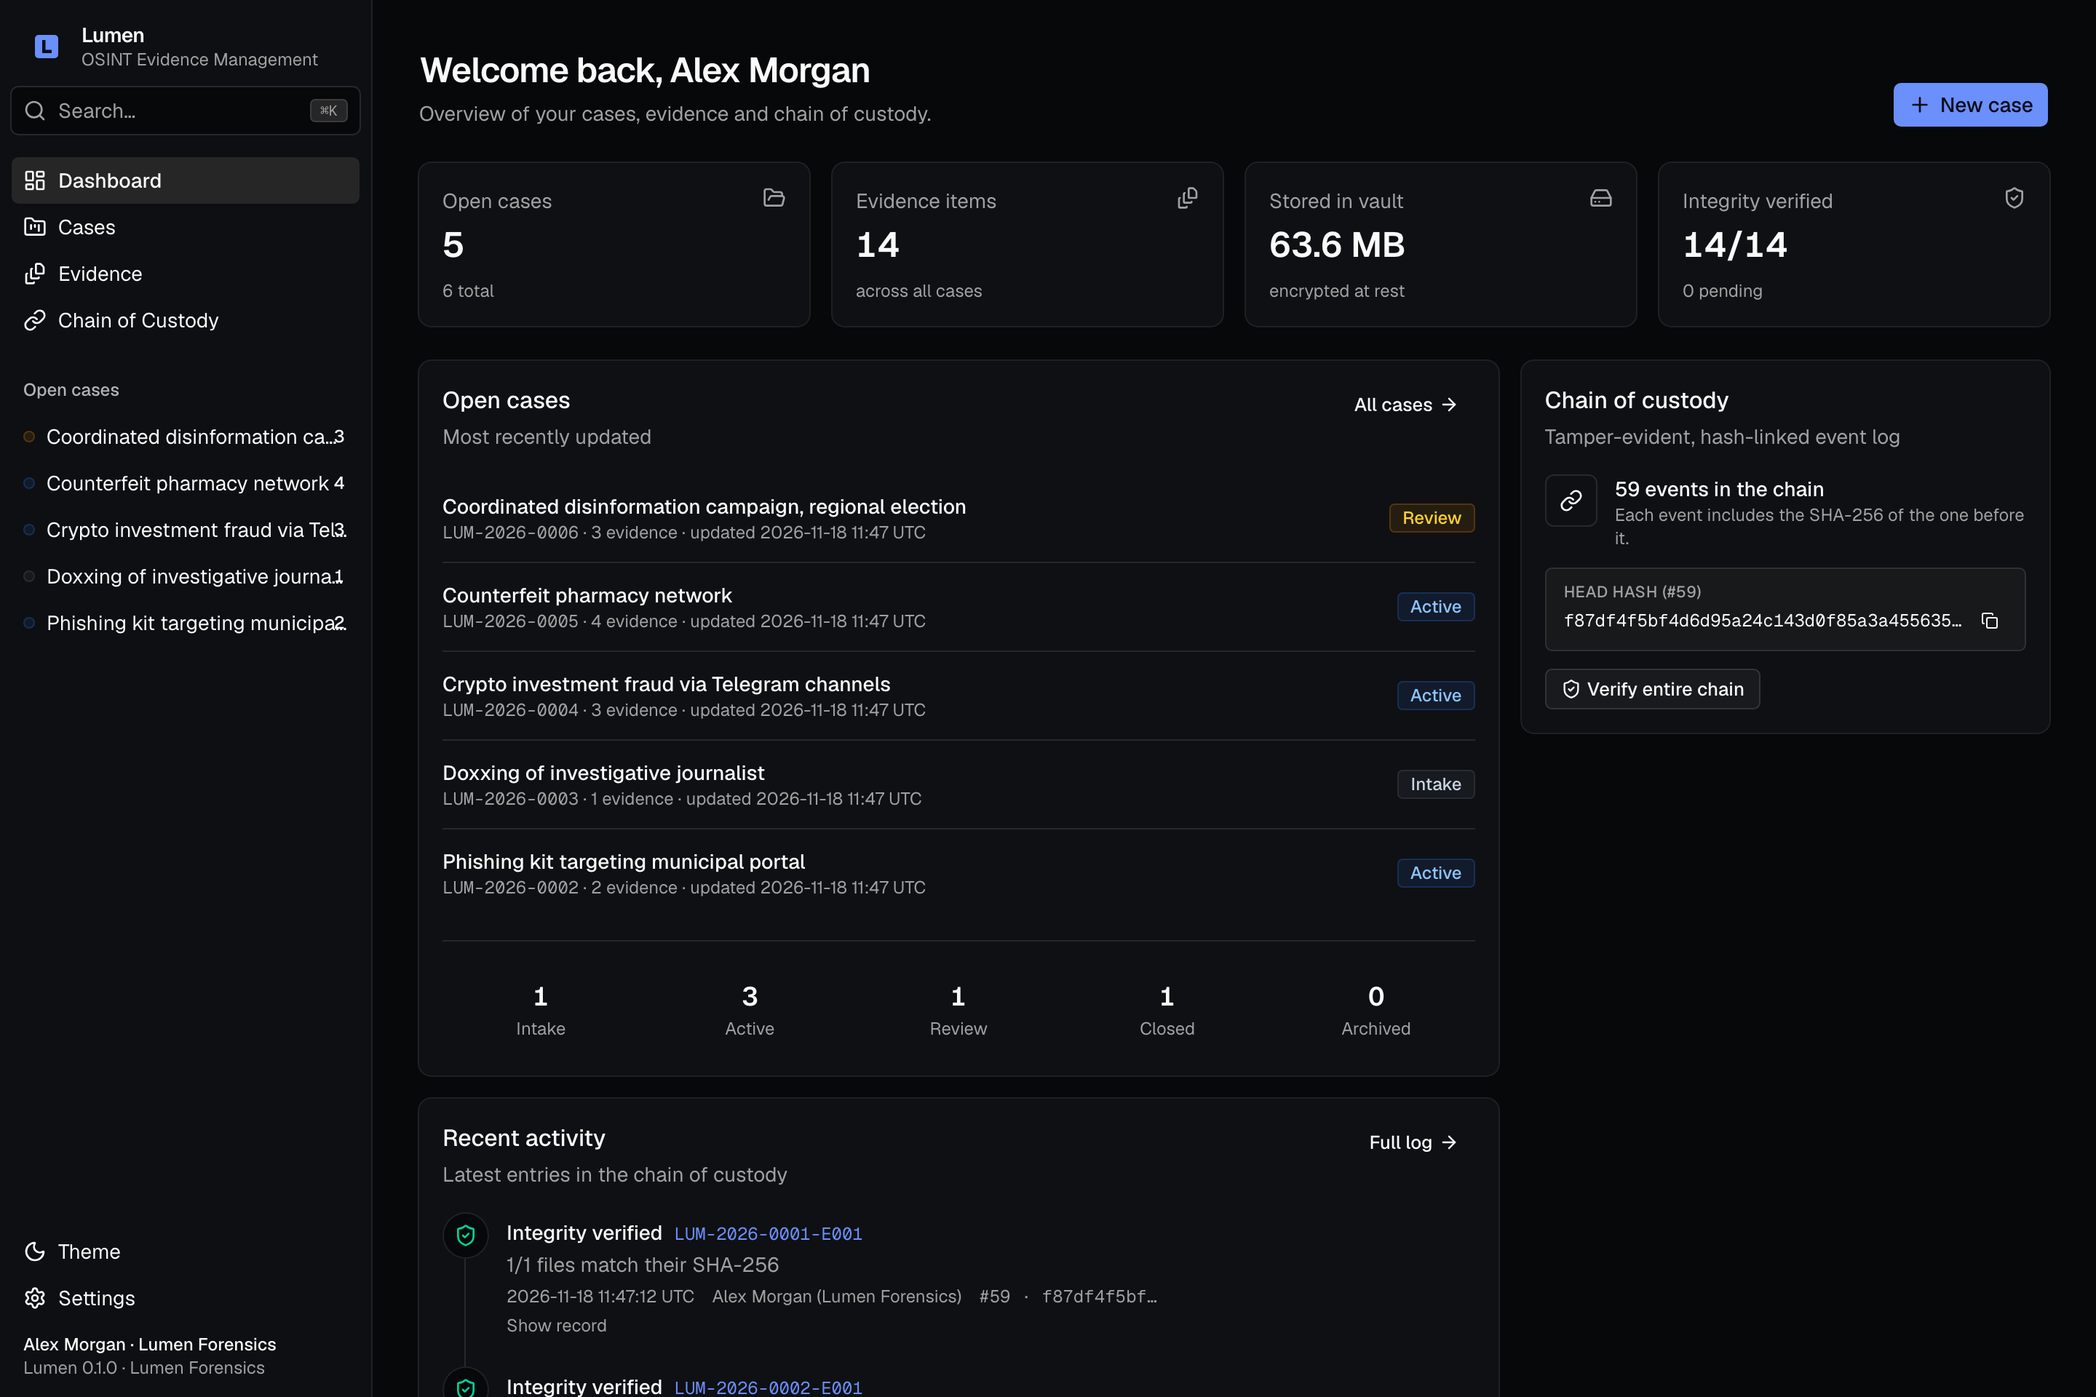
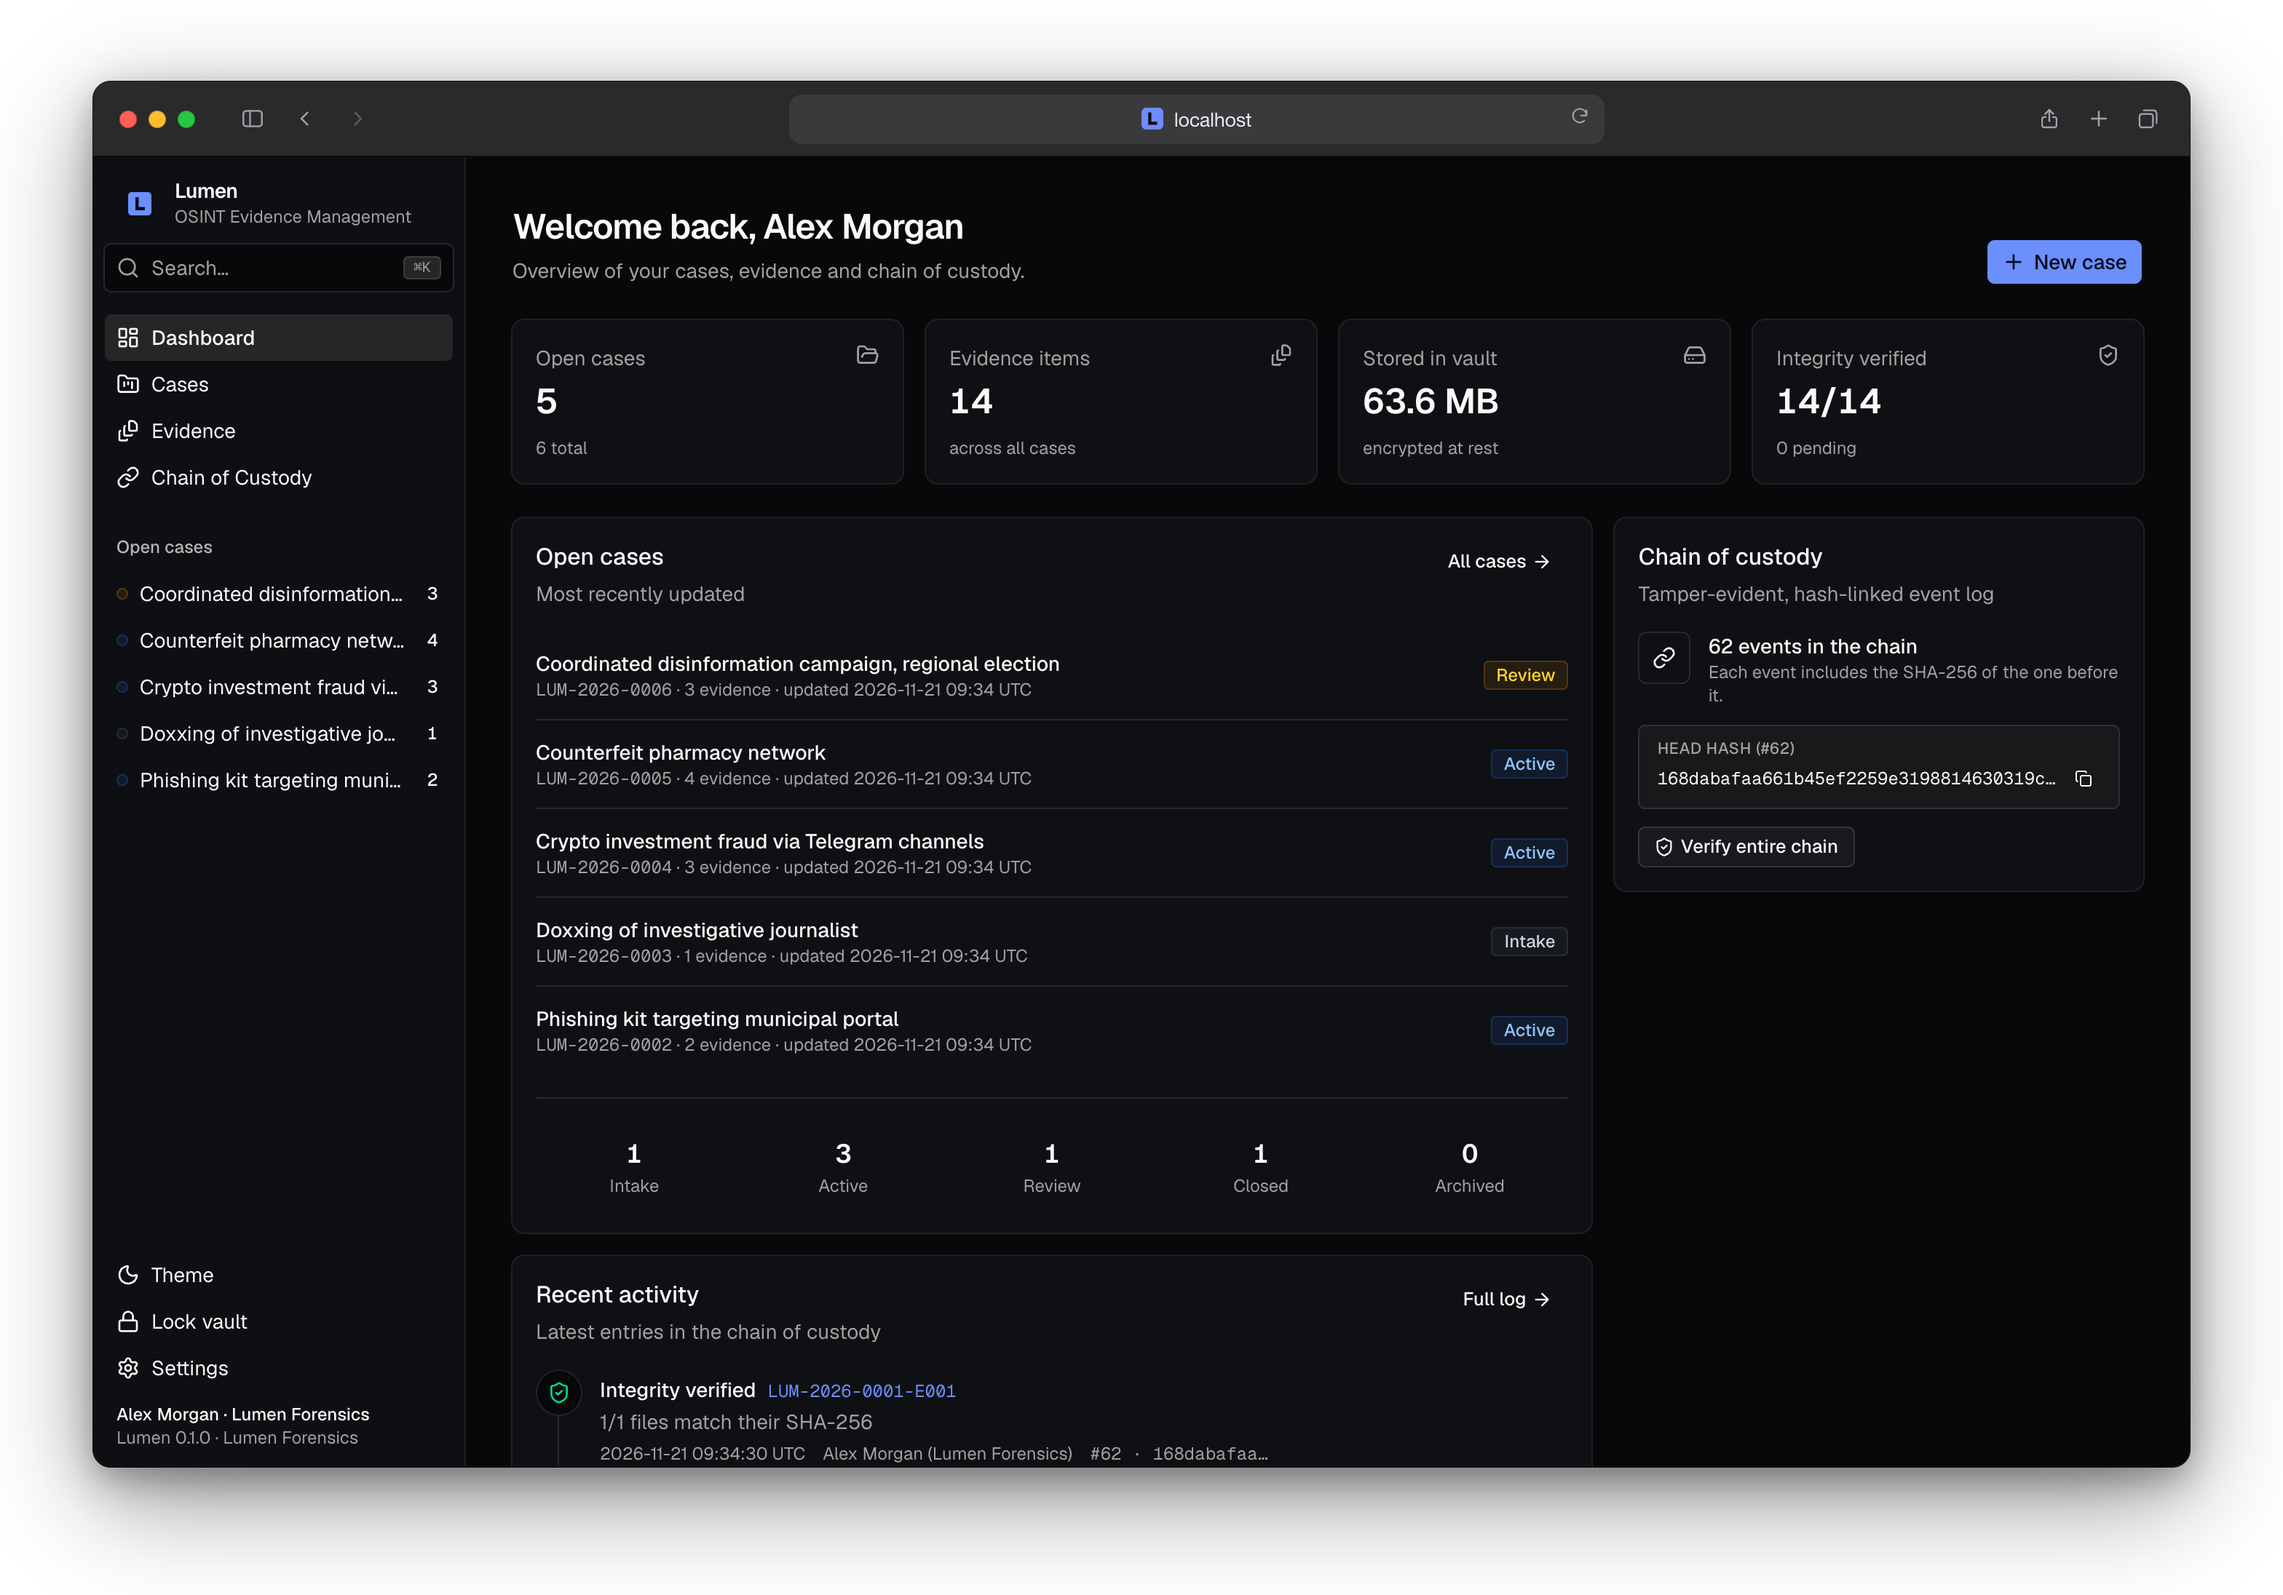
Show the dashboard in a Safari window in the README
Retake the README screenshot with the current UI (security key
registered, Lock vault in the sidebar) and frame it in a dark Safari
window on a transparent background.

Also keep long case titles in the sidebar clear of the evidence-count
badge: they now truncate before the number instead of running into it.

diff --git a/web/src/components/app-sidebar.tsx b/web/src/components/app-sidebar.tsx
@@ -104,7 +104,8 @@ export function AppSidebar({
               <SidebarMenu>
                 {openCases.map((c) => (
                   <SidebarMenuItem key={c.id}>
-                    <SidebarMenuButton asChild isActive={pathname === `/cases/${c.id}`}>
+                    {/* pr-8 keeps long titles clear of the evidence-count badge */}
+                    <SidebarMenuButton asChild isActive={pathname === `/cases/${c.id}`} className="pr-8">
                       <Link href={`/cases/${c.id}`}>
                         <span className={cn("size-2 shrink-0 rounded-full border", STATUS_STYLE[c.status])} />
                         <span className="truncate">{c.title}</span>

diff --git a/README.md b/README.md
@@ -6,7 +6,7 @@ Lumen helps an investigator register, preserve and account for digital evidence.
 fingerprinted with SHA-256, encrypted in an isolated vault, and tracked in a tamper-evident chain of
 custody, from the moment it is collected to the moment it is handed over.
 
-![Lumen dashboard showing open cases, evidence totals, integrity status and the chain of custody](docs/images/dashboard.png)
+![The Lumen dashboard in Safari, showing open cases, evidence totals, integrity status and the chain of custody](docs/images/dashboard.png)
 
 - **Cases.** Open cases, move them through *Intake → Active → Review → Closed → Archived*, keep
   timestamped notes.
